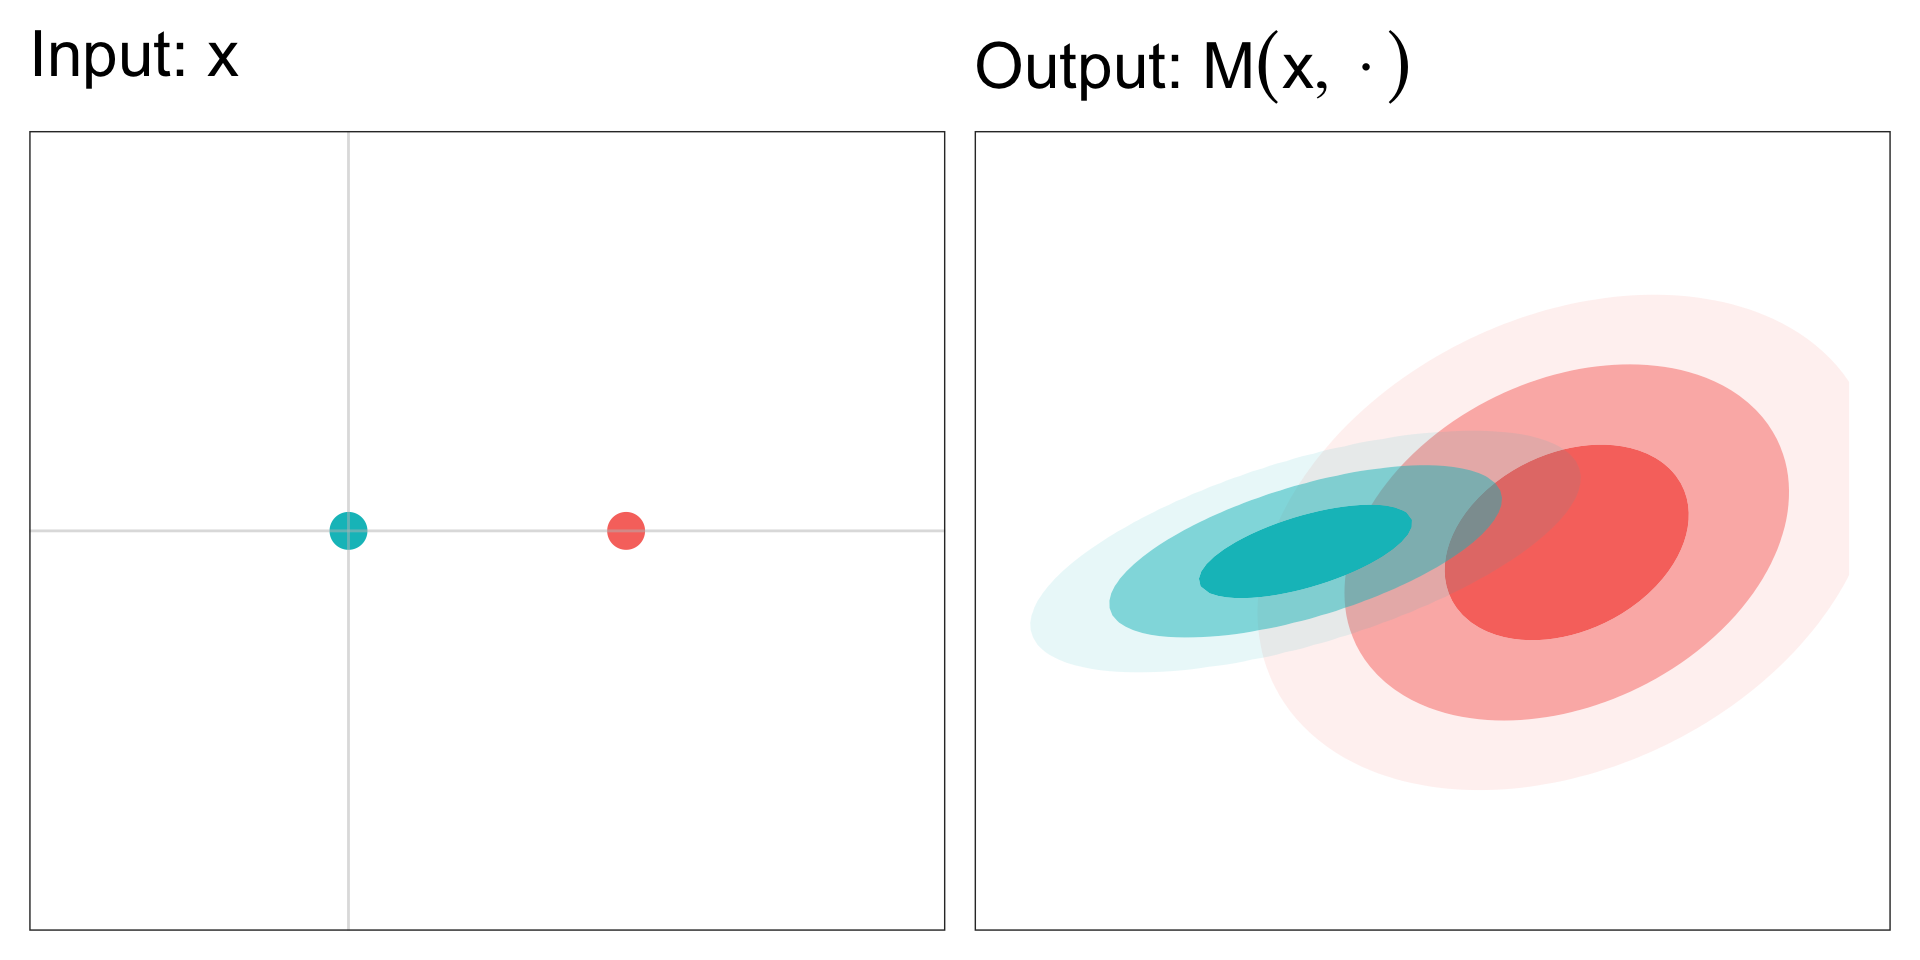
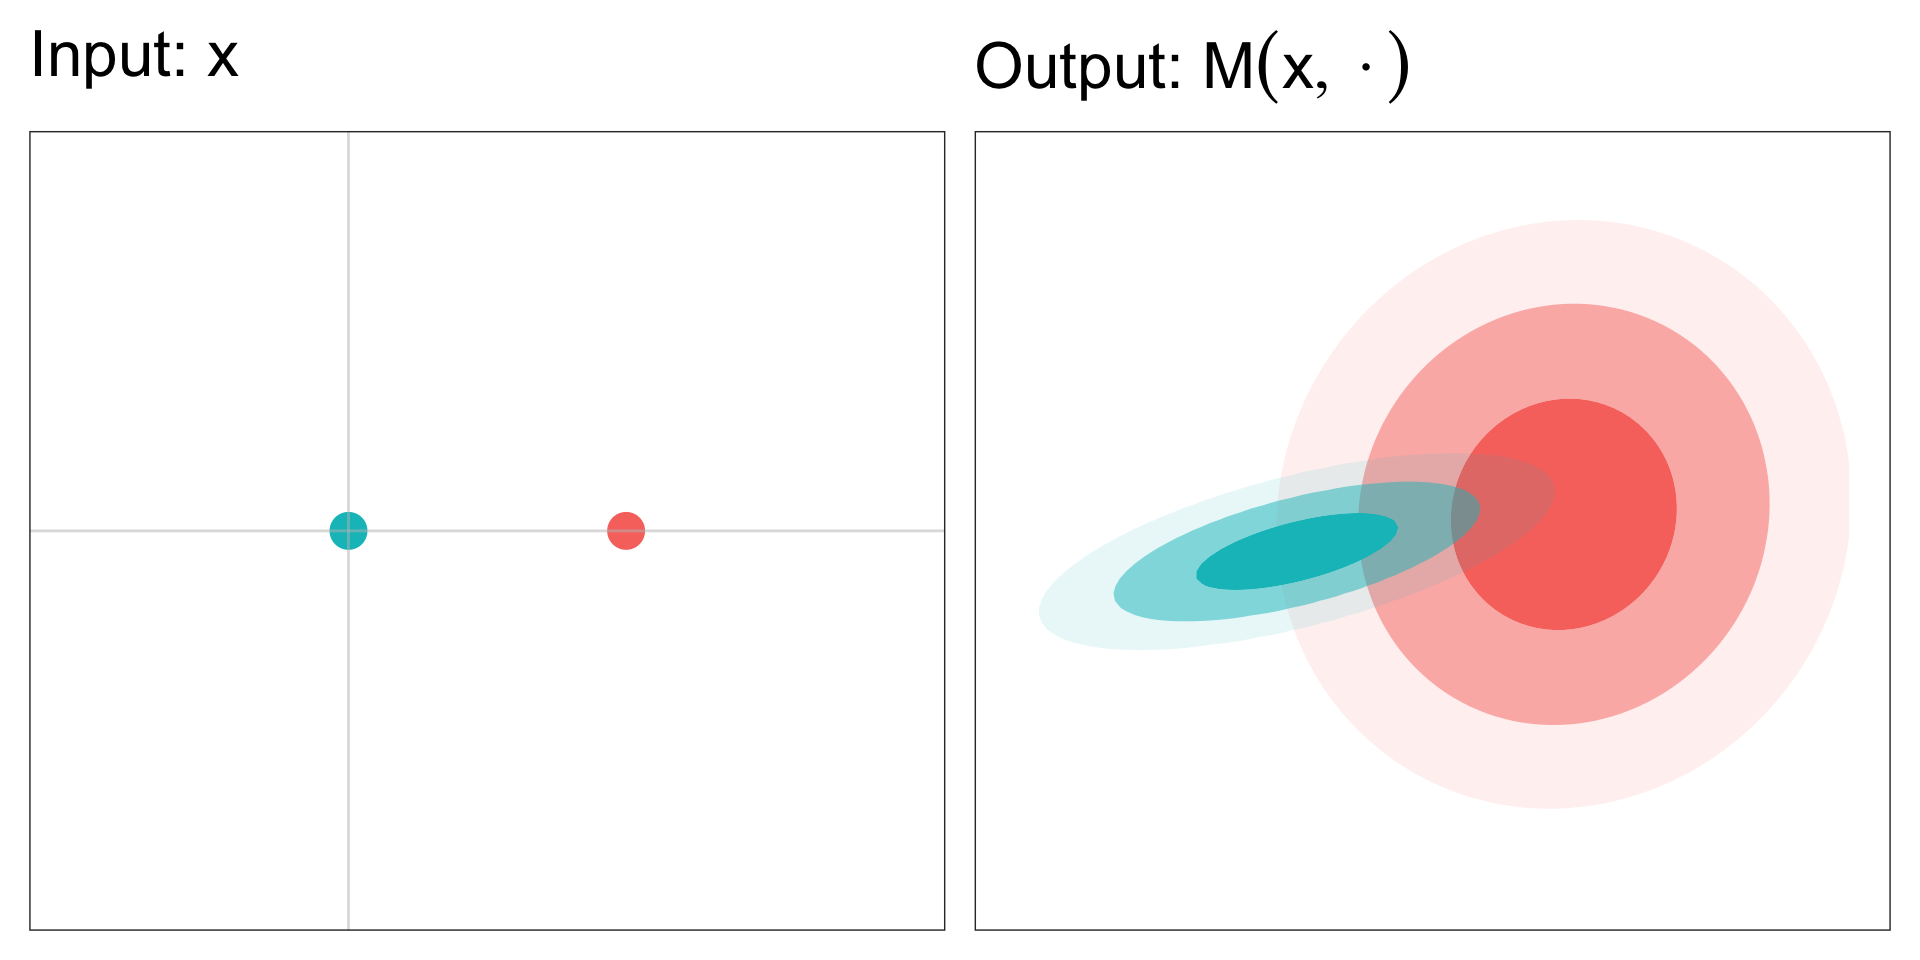
Update prior

diff --git a/index.html b/index.html
@@ -208,7 +208,7 @@ Joshua J Bon
 <div class="callout-icon-container">
 <i class="callout-icon"></i>
 </div>
-<p><strong>True or False?</strong></p>
+<p><strong>What’s your prior probability?</strong></p>
 </div>
 <div class="callout-content">
 <p><em>I’ve met a sumo wrestler.</em></p>